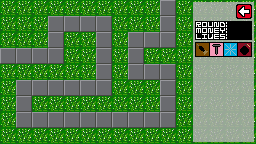
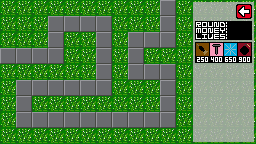
select towers, game balances, starting to implement buy menu

Changed region(s): [[0.75, 0.3889, 1.0, 0.4444]]

diff --git a/src/main/java/controller/game/TowerController.java b/src/main/java/controller/game/TowerController.java
@@ -5,57 +5,94 @@ import base.Play;
 import base.Position;
 import model.game.Elements.Towers.*;
 
-public class TowerController extends GameController{
+import java.util.ArrayList;
+import java.util.List;
+
+public class TowerController extends GameController {
     private boolean buying;
-    private Towers placingTower;
-    public TowerController(Play play){
+    private Towers selectedTower;
+    private List<Towers> placedTowers;
+    private boolean anySelected;
+
+    public TowerController(Play play) {
         super(play);
+        placedTowers = new ArrayList<>();
         buying = false;
+        anySelected = false;
     }
 
     public void step(Application application, Position mousePressed, Position mouseLocation, long time) {
-        if(!buying) {
-            if (mousePressed.isBetween(new Position(196*4, 43*4), new Position(208*4, 56*4))) {
+        checkIfSelected(mousePressed);
+        openMenu(mousePressed);
+        if (!buying) {
+            if (mousePressed.isBetween(new Position(196 * 4, 43 * 4), new Position(208 * 4, 56 * 4))) {
                 buying = true;
-                placingTower = new DartMonkeyTower();
-            } else if (mousePressed.isBetween(new Position(210*4,43*4), new Position(223*4,56*4))) {
+                selectedTower = new DartMonkeyTower();
+            } else if (mousePressed.isBetween(new Position(210 * 4, 43 * 4), new Position(223 * 4, 56 * 4))) {
                 buying = true;
-                placingTower = new TackTower();
-            } else if (mousePressed.isBetween(new Position(225*4,43*4), new Position(238*4,56*4))) {
+                selectedTower = new TackTower();
+            } else if (mousePressed.isBetween(new Position(225 * 4, 43 * 4), new Position(238 * 4, 56 * 4))) {
                 buying = true;
-                placingTower = new IceTower();
-            } else if (mousePressed.isBetween(new Position(240*4,43*4), new Position(253*4,56*4))) {
+                selectedTower = new IceTower();
+            } else if (mousePressed.isBetween(new Position(240 * 4, 43 * 4), new Position(253 * 4, 56 * 4))) {
                 buying = true;
-                placingTower = new BombTower();
+                selectedTower = new BombTower();
             }
-        }
-        else{
-            if(getModel().getPlayer().getMoney()>placingTower.price()){
-                placingTower.select();
-                place(placingTower, mousePressed, mouseLocation);
-                getModel().setPlacingTower(placingTower);
-            }
-            else{
+        } else {
+            if (getModel().getPlayer().getMoney() >= selectedTower.price()) {
+                selectedTower.select();
+                place(selectedTower, mousePressed, mouseLocation);
+                getModel().setPlacingTower(selectedTower);
+            } else {
                 buying = false;
             }
         }
     }
 
-    public void place(Towers tower, Position mousePressed, Position mouseLocation){
-        Position notPressed = new Position(-1,-1);
-        if(mousePressed.equals(notPressed) && tower.isSelected()){
+    public void place(Towers tower, Position mousePressed, Position mouseLocation) {
+        Position notPressed = new Position(-1, -1);
+        if (mousePressed.equals(notPressed) && tower.isSelected()) {
             tower.setPosition(mouseLocation);
-        }
-        else if(mousePressed != notPressed && mousePressed.legalPosition(getModel().getTowers())){
+        } else if (mousePressed != notPressed && mousePressed.legalPosition(getModel().getTowers())) {
             getModel().stopPlacingTower();
             getModel().getPlayer().spendMoney(tower.price());
             tower.stopSelecting();
             getModel().addTower(tower);
             tower.setPosition(mousePressed);
             buying = false;
+            placedTowers.add(tower);
         }
     }
 
+    public void checkIfSelected(Position mousePressed) {
+        Position nullPosition = new Position(-1, -1);
+        Position terminalPosition = new Position(mousePressed.getX() / 4, mousePressed.getY() / 4);
+        for (Towers tower : placedTowers) {
+            Position topLeft = new Position(tower.getPosition().getX() - 8, tower.getPosition().getY() - 8);
+            Position bottomRight = new Position(tower.getPosition().getX() + 8, tower.getPosition().getY() + 6);
+            if (terminalPosition.isBetween(topLeft, bottomRight) && !anySelected) {
+                tower.select();
+                selectedTower = tower;
+                anySelected = true;
+                break;
+            }
+            else if (tower.isSelected() && !mousePressed.equals(nullPosition)) {
+                System.out.println("select out: " + mousePressed.getX() + ", " + mousePressed.getY());
+                tower.stopSelecting();
+                anySelected = false;
+            }
+        }
+    }
+
+    public void openMenu(Position mousePressed){
+        Position leftUpgradeTop = new Position(100,200);
+        Position leftUpgradeBot = new Position(200,300);
+        if(anySelected == true){
+            if(mousePressed.isBetween(leftUpgradeTop, leftUpgradeBot)){
+                selectedTower.upgradeLeft();
+            }
+        }
+    }
 
 }
 

diff --git a/src/main/java/ScreenLoader/ScreenLoader.java b/src/main/java/ScreenLoader/ScreenLoader.java
@@ -120,21 +120,10 @@ public class ScreenLoader{
 
     public void drawTower(Towers tower){
         String file = tower.getFileName();
-        int width;
-        Position centerPosition;
-        if(tower.isSelected()){
-            width = 112;
-            centerPosition = new Position(tower.getPosition().getX()-56, tower.getPosition().getY()-56);
-        }
-        else{
-            width = 16;
-            centerPosition = new Position(tower.getPosition().getX()-8, tower.getPosition().getY()-8);
-        }
-
-        Reader towerImg = new Reader(file, width, width);
+        Position centerPosition = new Position(tower.getPosition().getX()-(tower.getSize()/2), tower.getPosition().getY()- (tower.getSize()/2));
+        Reader towerImg = new Reader(file, tower.getSize(), tower.getSize());
         Color[][] color = towerImg.getColor();
-
-        draw(width,width,centerPosition, color);
+        draw(tower.getSize(),tower.getSize(),centerPosition, color);
     }
     public void drawRange(Position position, int range){
         /*

diff --git a/src/main/java/model/game/Elements/Towers/DartMonkeyTower.java b/src/main/java/model/game/Elements/Towers/DartMonkeyTower.java
@@ -5,15 +5,21 @@ import com.googlecode.lanterna.graphics.TextGraphics;
 
 public class DartMonkeyTower extends Towers {
     public DartMonkeyTower() {
-        radius = 50;
+        radius = 35;
         value = 100;
         shootingWaitTime = 5000;
         isSelected = false;
+        size = 70;
+        selectedSize = 70;
         upgrades = new Upgrades();
+    }
+    public void select(){
+        size = selectedSize;
+        isSelected = true;
     }
 
     public String getFileName(){
-        if(isSelected) return "monkey/DartMonkeyTowerSpriteRange";
+        if(isSelected) return "ranges/DartMonkeyBaseRange";
         return "monkey/DartMonkeyTowerSprite";
     }
 
@@ -21,7 +27,7 @@ public class DartMonkeyTower extends Towers {
         return 250;
     }
 
-    public boolean upgradeLeft(){ //mais attack speed //
+    public boolean upgradeLeft(){ //mais attack speed
         if(!upgrades.upgradeLeft()) return false;
         value += 168;
         return true;

diff --git a/src/main/java/model/game/Elements/Towers/Towers.java b/src/main/java/model/game/Elements/Towers/Towers.java
@@ -10,6 +10,8 @@ public abstract class Towers {
     protected long lastShot;
     protected int shootingWaitTime;
     protected boolean isSelected;
+    protected int size;
+    protected int selectedSize;
 
 
     public void setPosition(Position pos) {
@@ -30,13 +32,14 @@ public abstract class Towers {
         return isSelected;
     }
     public void stopSelecting(){
+        size = 16;
         isSelected = false;
-    }
-    public void select(){
-        isSelected = true;
     }
     public Upgrades getUpgrades(){
         return upgrades;
+    }
+    public int getSize(){
+        return size;
     }
     public boolean canShoot(long time){
         if(time - lastShot > shootingWaitTime){
@@ -45,7 +48,7 @@ public abstract class Towers {
         }
         return false;
     }
-
+    public abstract void select();
     public abstract String getFileName();
     public abstract int price();
     public abstract boolean upgradeLeft();

diff --git a/src/main/java/model/game/Elements/Towers/IceTower.java b/src/main/java/model/game/Elements/Towers/IceTower.java
@@ -1,24 +1,27 @@
 package model.game.Elements.Towers;
 
-import base.Position;
-import com.googlecode.lanterna.graphics.TextGraphics;
-
 public class IceTower extends Towers {
     public IceTower(){
         radius = 30;
-        value = 680;
+        value = 400;
         shootingWaitTime = 7000;
         isSelected = false;
         upgrades = new Upgrades();
+        size = 60;
+        selectedSize = 60;
     }
 
     public String getFileName(){
+        if(isSelected) return "ranges/BombTowerBaseRange";
         return "monkey/IceTowerSprite";
     }
 
-
+    public void select(){
+        size = selectedSize;
+        isSelected = true;
+    }
     public int price() {
-        return 850;
+        return 650;
     }
 
     public boolean upgradeLeft() { //mais quantidade de slow//

diff --git a/src/main/java/controller/game/BloonController.java b/src/main/java/controller/game/BloonController.java
@@ -23,7 +23,6 @@ public class BloonController extends GameController {
             Bloon bloon = getModel().getBloons().get(i);
             getModel().popBloon(time);
 
-
             if(bloon.canMove(time)){
                 moveBloon(bloon, bloon.getPosition().getNextPosition());
             }
@@ -57,7 +56,6 @@ public class BloonController extends GameController {
     }
 
     private void moveBloon(Bloon bloon, Position position){
-        //System.out.println("Current Position: " + bloon.getPosition().getX() + ", " + bloon.getPosition().getY() + " New Position: " + position.getX() + ", " + position.getY());
         bloon.setPosition(position);
     }
 }

diff --git a/src/main/java/model/game/Elements/Towers/TackTower.java b/src/main/java/model/game/Elements/Towers/TackTower.java
@@ -4,17 +4,24 @@ import com.googlecode.lanterna.graphics.TextGraphics;
 
 public class TackTower extends Towers {
     public TackTower(){
-        radius = 20;
+        radius = 25;
         value = 320;
         shootingWaitTime = 7000;
         isSelected = false;
+        size = 50;
+        selectedSize = 50;
         upgrades = new Upgrades();
     }
 
+
     public String getFileName(){
+        if(isSelected)return "ranges/TackTowerBaseRange";
         return "monkey/TackTowerSprite";
     }
-
+    public void select(){
+        size = selectedSize;
+        isSelected = true;
+    }
 
     public int price() {
         return 400;

diff --git a/src/main/java/model/game/Elements/Towers/BombTower.java b/src/main/java/model/game/Elements/Towers/BombTower.java
@@ -1,17 +1,21 @@
 package model.game.Elements.Towers;
 
-import com.googlecode.lanterna.graphics.TextGraphics;
-
 public class BombTower extends Towers {
     public BombTower(){
-        radius = 30;
+        radius = 45;
         value = 720;
         shootingWaitTime = 7000;
         isSelected = false;
         upgrades = new Upgrades();
+        size = 90;
+        selectedSize = 90;
     }
-
+    public void select(){
+        size = selectedSize;
+        isSelected = true;
+    }
     public String getFileName(){
+        if(isSelected) return "ranges/BombTowerBaseRange";
         return "monkey/BombTowerSprite";
     }
 

diff --git a/src/main/java/base/Position.java b/src/main/java/base/Position.java
@@ -95,7 +95,7 @@ public class Position {
     }
 
     public boolean isInRange(Position pos, int radius){
-        return Math.pow(x - pos.getX(), 2) + Math.pow(y - pos.getY(), 2) < Math.pow(radius, 2);
+        return Math.pow((x+8) - pos.getX(), 2) + Math.pow((y+8) - pos.getY(), 2) < Math.pow(radius, 2);
     }
 
     public Position getNextPosition(){
